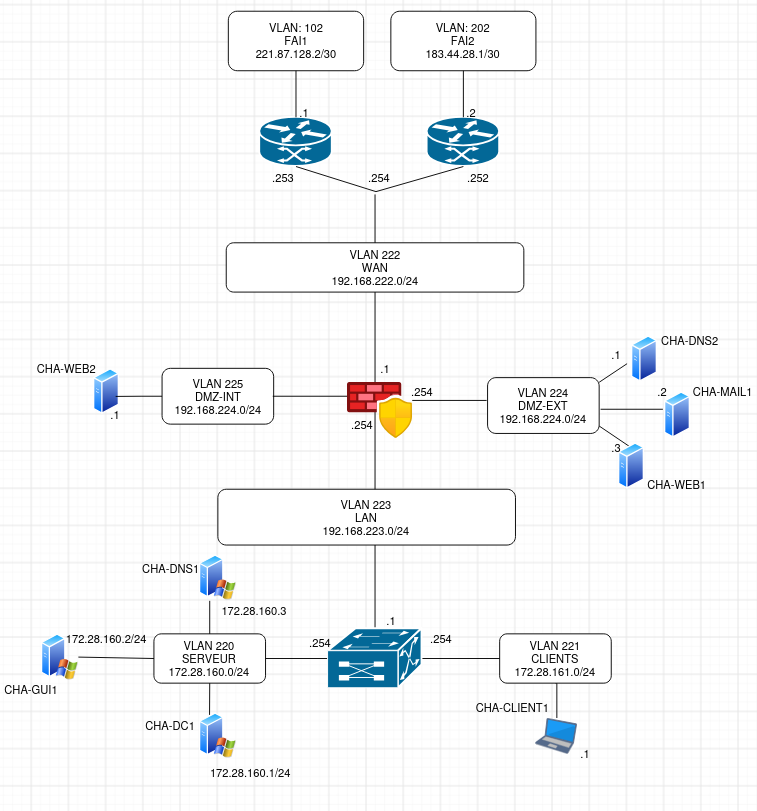
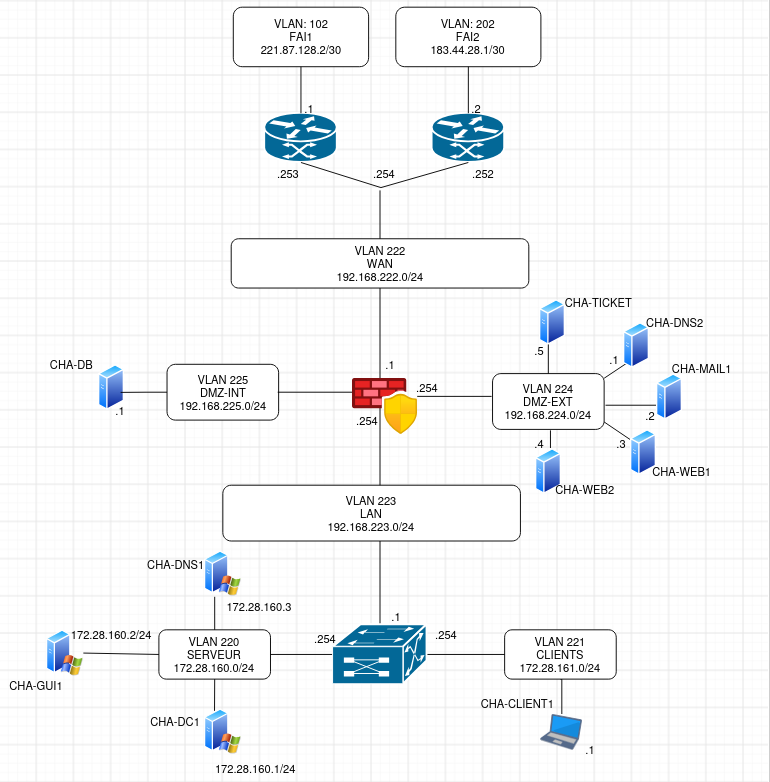
mise à jour du DNS Public

diff --git a/site/documentation/index.html b/site/documentation/index.html
@@ -439,7 +439,7 @@ write memory
 <span class="nv">interface</span><span class="w"> </span><span class="nv">range</span><span class="w"> </span><span class="nv">GigabitEthernet1</span><span class="o">/</span><span class="mi">0</span><span class="o">/</span><span class="mi">23</span><span class="o">-</span><span class="mi">24</span>
 <span class="w"> </span><span class="nv">description</span><span class="w"> </span><span class="nv">LACP</span><span class="o">-</span><span class="nv">ETHERCHANNEL</span>
 <span class="w"> </span><span class="nv">switchport</span><span class="w"> </span><span class="nv">mode</span><span class="w"> </span><span class="nv">trunk</span>
-<span class="w"> </span><span class="nv">switchport</span><span class="w"> </span><span class="nv">trunk</span><span class="w"> </span><span class="nv">allowed</span><span class="w"> </span><span class="nv">vlan</span><span class="w"> </span><span class="mi">120</span>,<span class="mi">220</span>
+<span class="w"> </span><span class="nv">switchport</span><span class="w"> </span><span class="nv">trunk</span><span class="w"> </span><span class="nv">allowed</span><span class="w"> </span><span class="nv">vlan</span><span class="w"> </span><span class="mi">120</span>,<span class="mi">220</span>,<span class="mi">221</span>,<span class="mi">223</span>,<span class="mi">224</span>,<span class="mi">225</span>
 <span class="w"> </span><span class="nv">channel</span><span class="o">-</span><span class="nv">group</span><span class="w"> </span><span class="mi">1</span><span class="w"> </span><span class="nv">mode</span><span class="w"> </span><span class="nv">active</span>
 <span class="w"> </span><span class="nv">no</span><span class="w"> </span><span class="nv">shutdown</span>
 <span class="w"> </span><span class="k">exit</span>
@@ -447,7 +447,7 @@ write memory
 <span class="nv">interface</span><span class="w"> </span><span class="nv">Port</span><span class="o">-</span><span class="nv">channel1</span>
 <span class="w"> </span><span class="nv">description</span><span class="w"> </span><span class="nv">LACP</span><span class="o">-</span><span class="nv">TRUNK</span>
 <span class="w"> </span><span class="nv">switchport</span><span class="w"> </span><span class="nv">mode</span><span class="w"> </span><span class="nv">trunk</span>
-<span class="w"> </span><span class="nv">switchport</span><span class="w"> </span><span class="nv">trunk</span><span class="w"> </span><span class="nv">allowed</span><span class="w"> </span><span class="nv">vlan</span><span class="w"> </span><span class="mi">120</span>,<span class="mi">220</span>
+<span class="w"> </span><span class="nv">switchport</span><span class="w"> </span><span class="nv">trunk</span><span class="w"> </span><span class="nv">allowed</span><span class="w"> </span><span class="nv">vlan</span><span class="w"> </span><span class="mi">120</span>,<span class="mi">220</span>,<span class="mi">221</span>,<span class="mi">223</span>,<span class="mi">224</span>,<span class="mi">225</span>
 <span class="w"> </span><span class="nv">no</span><span class="w"> </span><span class="nv">shutdown</span>
 <span class="w"> </span><span class="k">exit</span>
 
@@ -1094,7 +1094,7 @@ sudo systemctl restart apache2
 </code></pre></div>
 
 <p>On doit verifier la présence de :</p>
-<p>-mysqli
+<div class="codehilite"><pre><span></span><code>-mysqli
 -gd
 -imap
 -intl
@@ -1102,7 +1102,9 @@ sudo systemctl restart apache2
 -xml
 -curl
 -zip
--apcu</p>
+-apcu
+</code></pre></div>
+
 <p>Si certaines extensions sont absentes :</p>
 <div class="codehilite"><pre><span></span><code>sudo apt install php-mysql php-gd php-imap php-intl \
 php-mbstring php-xml php-curl php-zip php-apcu -y
@@ -1140,7 +1142,7 @@ php-mbstring php-xml php-curl php-zip php-apcu -y
 <div class="codehilite"><pre><span></span><code>sudo apache2ctl configtest
 </code></pre></div>
 
-<p>Puis reload apache2</p>
+<p>Puis reload apache2 :</p>
 <div class="codehilite"><pre><span></span><code><span class="n">sudo</span><span class="w"> </span><span class="n">systemctl</span><span class="w"> </span><span class="n">reload</span><span class="w"> </span><span class="n">apache2</span>
 </code></pre></div>
 

diff --git a/site/index.html b/site/index.html
@@ -405,7 +405,7 @@
     <div class="sl-hero-visual" aria-hidden="true">
       <div class="sl-orbit sl-orbit-one"></div><div class="sl-orbit sl-orbit-two"></div>
       <div class="sl-core"><span class="sl-core-icon">⌘</span><strong>DSI</strong><small>CHARTRES</small></div>
-      <span class="sl-float sl-float-top">⚽</span><span class="sl-float sl-float-right">🏀</span><span class="sl-float sl-float-bottom">🏐</span><span class="sl-float sl-float-left">🤾</span>
+      <span class="sl-float sl-float-top">⚽</span><span class="sl-float sl-float-right">🏀</span><span class="sl-float sl-float-left">🤾</span>
       <div class="sl-mini-card">● <span>RÉSEAU · SYSTÈMES · SÉCURITÉ</span></div>
     </div>
   </section>

diff --git a/docs/documentation.md b/docs/documentation.md
@@ -289,19 +289,28 @@ Ensuite, nous le configurons de la manière suivante :
 $TTL 3600
 
 @   IN SOA ns.chartres.sportludique.fr. admin.chartres.sportludique.fr. (
-2026101301
+2026102401
 3600
 900
 604800
 3600
 )
 
+//Serveur DNS
 @            IN NS      ns.chartres.sportludique.fr.
+ns           IN A       221.87.128.1
 
-ns           IN A       221.87.128.1Un listeners accepte les connexio  sur une adresse et un port, puis leur associe un protocol
-
+//CHA-WEB1
 @            IN A       221.87.128.1
-www          IN A       221.87.128.1
+www          IN CNAME   @
+
+//Support Ticket
+support IN CNAME        @
+
+// Mail
+@ IN MX 10  mail.chartres.sportludique.fr.
+mail IN A 221.87.128.1
+
 ```
 Nous devons par la suite ajouter la redirection de port sur le routeur, pour permettre aux utilisateurs en dehors du LAN d'y accéder (voir 2.3).
 
@@ -618,7 +627,7 @@ Nous mettons la configuration suivante dans le fichier qui précède :
 
 On active donc le site, nous testons la configuration et nous rechargeons Apache :
 
-```
+```dig support.chartres.sportludique.fr
 sudo a2ensite sportludique-ssl.conf
 sudo apache2ctl configtest
 sudo systemctl reload apache2
@@ -921,3 +930,6 @@ Ouvrir le navigateur pour pouvoir le configurer
 ```
 http://IP_DE_TON_SERVEUR/setup/
 ```
+
+## 10 - Mise en place de la solution de ticket `OS TICKET`
+

diff --git a/site/documentation.md b/site/documentation.md
@@ -72,7 +72,7 @@ conf t
 interface range GigabitEthernet1/0/23-24
  description LACP-ETHERCHANNEL
  switchport mode trunk
- switchport trunk allowed vlan 120,220
+ switchport trunk allowed vlan 120,220,221,223,224,225
  channel-group 1 mode active
  no shutdown
  exit
@@ -80,7 +80,7 @@ interface range GigabitEthernet1/0/23-24
 interface Port-channel1
  description LACP-TRUNK
  switchport mode trunk
- switchport trunk allowed vlan 120,220
+ switchport trunk allowed vlan 120,220,221,223,224,225
  no shutdown
  exit
 
@@ -853,6 +853,7 @@ php -m
 
 On doit verifier la présence de :
 
+```
 -mysqli
 -gd
 -imap
@@ -862,6 +863,7 @@ On doit verifier la présence de :
 -curl
 -zip
 -apcu
+```
 
 Si certaines extensions sont absentes :
 
@@ -908,7 +910,7 @@ Vérifier la configuration :
 ```
 sudo apache2ctl configtest
 ```
-Puis reload apache2
+Puis reload apache2 :
 
 ```
 sudo systemctl reload apache2

diff --git a/site/index.md b/site/index.md
@@ -28,7 +28,7 @@ title: Accueil
     <div class="sl-hero-visual" aria-hidden="true">
       <div class="sl-orbit sl-orbit-one"></div><div class="sl-orbit sl-orbit-two"></div>
       <div class="sl-core"><span class="sl-core-icon">⌘</span><strong>DSI</strong><small>CHARTRES</small></div>
-      <span class="sl-float sl-float-top">⚽</span><span class="sl-float sl-float-right">🏀</span><span class="sl-float sl-float-bottom">🏐</span><span class="sl-float sl-float-left">🤾</span>
+      <span class="sl-float sl-float-top">⚽</span><span class="sl-float sl-float-right">🏀</span><span class="sl-float sl-float-left">🤾</span>
       <div class="sl-mini-card">● <span>RÉSEAU · SYSTÈMES · SÉCURITÉ</span></div>
     </div>
   </section>
